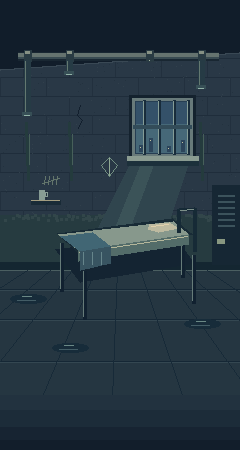
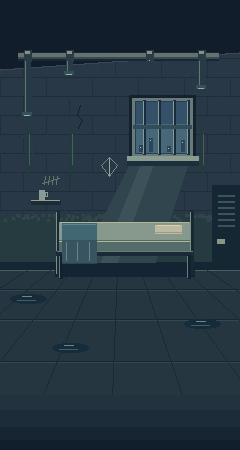
Align menu bed horizontally with front-facing character

Changed region(s): [[0.2333, 0.4667, 0.8167, 0.6844]]

diff --git a/tools/build_menu_assets.py b/tools/build_menu_assets.py
@@ -77,25 +77,33 @@ for x,y in [(69,347),(201,323),(27,298)]:
     d.ellipse((x-17,y-4,x+19,y+5),fill='#172c3a')
     d.line((x-10,y+2,x+8,y+2),fill='#435d66')
     d.line((x-5,y-2,x+4,y-2),fill='#6a8885')
-# Bed frame and mattress. The character's hips sit on the near mattress edge.
-d.polygon([(55,249),(171,233),(194,263),(80,282)],fill='#142432')
-for x,y in [(60,243),(181,229),(83,271),(192,255)]:
-    d.rectangle((x,y,x+3,y+48),fill='#112130')
-    d.line((x,y,x,y+45),fill='#677c79')
-d.polygon([(57,233),(172,218),(192,234),(77,252)],fill='#182b36')
-d.polygon([(58,234),(173,221),(188,234),(78,250)],fill='#87988c')
-d.polygon([(78,250),(188,234),(188,244),(78,261)],fill='#536c69')
-d.line((79,252,187,236),fill='#b4b69a')
-# Pillow at the far end and an uneven folded blanket.
-d.polygon([(149,224),(169,222),(178,228),(158,232),(148,229)],fill='#bdbaa0')
-d.line((151,226,168,224),fill='#e0d0ac')
-d.polygon([(60,236),(92,232),(110,246),(80,251)],fill='#416674')
-d.polygon([(80,251),(110,246),(110,263),(80,270)],fill='#385461')
-for x in (83,92,101):
-    d.line((x,252,x,264),fill='#66858b')
-# Headboard visible behind the pillow.
-d.line([(179,232),(179,209),(194,208),(194,251)],fill='#162a36',width=4)
-d.line((180,210,193,209),fill='#7c8f88')
+# Front-facing bed: mattress and frame edges stay horizontal. The seated
+# character's hips meet the front edge at y=239; both feet remain on the floor.
+d.rectangle((55,263,194,276), fill='#142432')
+# Upright end rails behind the mattress.
+for x in (56,190):
+    d.rectangle((x,211,x+3,274), fill='#162a36')
+    d.line((x,212,x,273), fill='#7c8f88')
+# Mattress top, straight front edge and metal support.
+d.rectangle((59,222,189,239), fill='#87988c')
+d.line((60,222,188,222), fill='#b4b69a')
+d.rectangle((59,240,189,250), fill='#536c69')
+d.line((59,241,189,241), fill='#b4b69a')
+d.rectangle((56,251,193,255), fill='#182b36')
+d.line((57,251,192,251), fill='#677c79')
+for x in (59,187):
+    d.rectangle((x,255,x+3,278), fill='#112130')
+    d.line((x,256,x,277), fill='#677c79')
+# Pillow lies flat at the right end; blanket hangs over the left front edge.
+d.rectangle((155,225,181,233), fill='#bdbaa0')
+d.line((157,225,179,225), fill='#e0d0ac')
+d.line((155,232,181,232), fill='#969c88')
+d.rectangle((62,223,96,239), fill='#416674')
+d.line((63,224,95,224), fill='#66858b')
+d.rectangle((62,240,96,263), fill='#385461')
+for x in (66,77,89):
+    d.line((x,242,x,260), fill='#66858b')
+d.line((62,263,96,263), fill='#294450')
 # Stool, cup, tiny shelf and a sliver of a sealed cell door.
 d.rectangle((31,200,60,204),fill='#192b37')
 d.line((31,200,59,200),fill='#a39d80')
